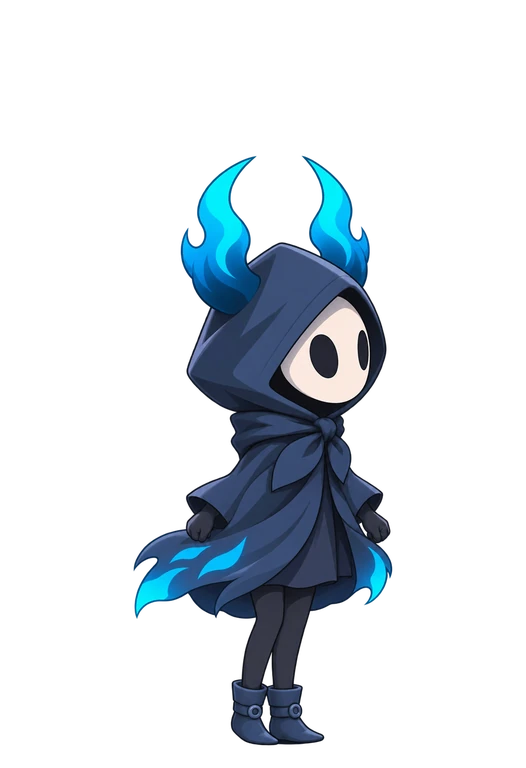
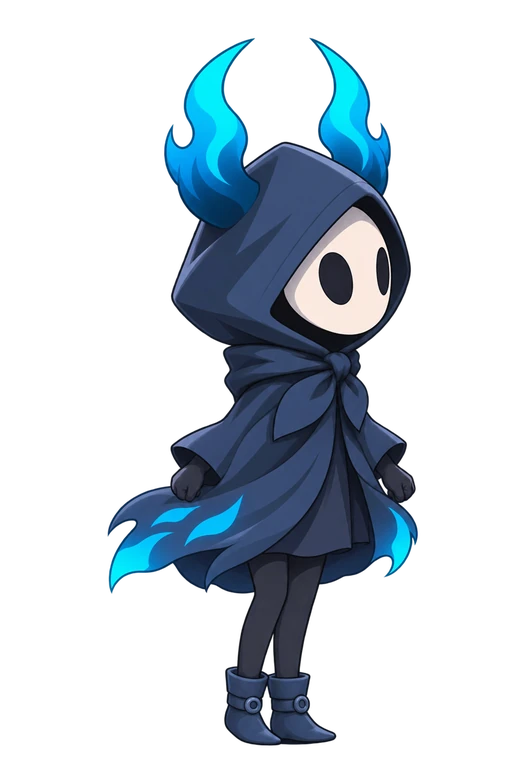
fix(companion): animation critic round 4 — transition edges, per-transition timing, chain via stand
Critic round 4 with the new frames: 8/10 (idle 9.5, emote 8). Fixed:
- walk_to_stand_1 was generated ~20% small: rescaled ×1.2 from the feet;
- entering and leaving a transition no longer crossfades into the loop (double figures);
- per-transition speed: getting up from lying / hopping off an edge 8 fps, landing 10, others 12, the
  last frame held 40 ms longer;
- no direct transition between two poses → chain through stand (e.g. stretch → stand → wave).

Changed region(s): [[0.1825, 0.0312, 0.7909, 0.9688], [0.5779, 0.0312, 0.6084, 0.0625]]

diff --git a/ui/src/features/companion/look/stage.ts b/ui/src/features/companion/look/stage.ts
@@ -8,8 +8,15 @@ import type { Body } from "../body";
 import { drawEffects } from "./effects";
 import { ANCHORS, CANVAS_RATIO, FALLBACK, LOOP_FPS, loadPoses, pickFrame, sequence } from "./pack";
 
-/** Переходные кадры между позами (`<из>_to_<в>_1…N`, FRAMES-4.md) — 12 кадров/с. */
+/** Переходные кадры между позами (`<из>_to_<в>_1…N`, FRAMES-4.md): 12 кадров/с, тяжёлые подъёмы — 8. */
 const TRANSITION_FPS = 12;
+const SLOW_TRANSITION: ReadonlyMap<string, number> = new Map([
+  ["laydown_to_stand", 8],
+  ["sit_edge_to_stand", 8],
+  ["float_to_stand", 10],
+]);
+/** Последний кадр перехода держится чуть дольше: подъём «доходит» (критик, раунд 4). */
+const TRANSITION_HOLD_S = 0.04;
 import { Motion } from "./motion";
 import { drawPanel, panelRect } from "./panel";
 import { placeholderPose } from "./placeholder";
@@ -110,12 +117,7 @@ export class CompanionStage {
       speaking: look.speaking && !sleeping && petting === 0,
       blink,
     };
-    const transition = this.#transition;
-    const step = transition === null ? -1 : Math.floor(transition.t * TRANSITION_FPS);
-    const key =
-      transition !== null && step < transition.keys.length
-        ? (transition.keys[step] ?? null)
-        : pickFrame(pose, state, this.#keys);
+    const key = this.#transitionKey() ?? pickFrame(pose, state, this.#keys);
     this.#frameKey = key;
     if (key !== null) return this.#poses.get(key) ?? null;
     const fallback = [pose, ...FALLBACK[pose]].find((one) => this.#placeholders.has(one));
@@ -124,7 +126,9 @@ export class CompanionStage {
 
   #lastDt = 0;
   #lastPose: Pose | null = null;
-  #transition: { keys: string[]; t: number } | null = null;
+  #transition: { keys: { key: string; s: number }[]; t: number } | null = null;
+  /** Этот кадр — граница перехода: без растворения цикла. */
+  #edge = false;
   /** Показанное свечение — плавно догоняет `look.attention`. */
   #glow = 0;
 
@@ -159,15 +163,43 @@ export class CompanionStage {
 
   /** Поза сменилась: есть переходные кадры («из_to_в» или обратные «в_to_из» задом наперёд) — сыграть. */
   #transit(pose: Pose, dt: number): void {
+    const was = this.#transitionKey();
     if (this.#transition !== null) this.#transition.t += dt;
+    // Вход в переход и выход из него — без растворения цикла: переход сам и есть сглаживание.
+    this.#edge = was !== this.#transitionKey();
     if (pose === this.#lastPose) return;
     const from = this.#lastPose;
     this.#lastPose = pose;
     if (from === null) return;
-    const forward = sequence(`${from}_to_${pose}`, this.#keys);
+    // Прямого перехода нет — через стойку (критик: «потягивается → машет» без перехода).
+    const direct = this.#path(from, pose);
     const keys =
-      forward.length > 0 ? forward : sequence(`${pose}_to_${from}`, this.#keys).reverse();
+      direct.length > 0 || from === "stand" || pose === "stand"
+        ? direct
+        : [...this.#path(from, "stand"), ...this.#path("stand", pose)];
     this.#transition = keys.length > 0 ? { keys, t: 0 } : null;
+    this.#edge = this.#edge || this.#transition !== null;
+  }
+
+  /** Кадры перехода `from → to`: прямые или обратные задом наперёд; каждый — со своей частотой. */
+  #path(from: Pose, to: Pose): { key: string; s: number }[] {
+    const forward = sequence(`${from}_to_${to}`, this.#keys);
+    const name = forward.length > 0 ? `${from}_to_${to}` : `${to}_to_${from}`;
+    const keys = forward.length > 0 ? forward : sequence(name, this.#keys).reverse();
+    const s = 1 / (SLOW_TRANSITION.get(name) ?? TRANSITION_FPS);
+    return keys.map((key, i) => ({ key, s: i === keys.length - 1 ? s + TRANSITION_HOLD_S : s }));
+  }
+
+  /** Кадр перехода сейчас или `null`. */
+  #transitionKey(): string | null {
+    const transition = this.#transition;
+    if (transition === null) return null;
+    let t = transition.t;
+    for (const one of transition.keys) {
+      if (t < one.s) return one.key;
+      t -= one.s;
+    }
+    return null;
   }
 
   /** Нарисовать кадр позы `pose` высотой `h` относительно уже сдвинутой в точку опоры системы. */
@@ -208,7 +240,7 @@ export class CompanionStage {
     ctx.save();
     // Растворять ли кадры цикла, решает `SOFT_LOOPS` (motion.ts): ходьба, лазанье, танец — нет.
     const loopS = 1 / (LOOP_FPS[body.pose] ?? 6);
-    this.#motion.frame(image, body.pose, loopS);
+    this.#motion.frame(image, body.pose, this.#edge ? 0 : loopS);
     const smooth = this.#motion.step(body, this.#lastDt);
     ctx.translate(body.x, body.y - lift);
     ctx.rotate(smooth.lean);

diff --git a/docs/ai/PROJECT_MAP.md b/docs/ai/PROJECT_MAP.md
@@ -957,8 +957,8 @@
 - `panelRect` — `ui/src/features/companion/look/panel.ts:12` — Прямоугольник табло на экране по рамке нарисованного кадра.
 - `drawPanel` — `ui/src/features/companion/look/panel.ts:22` — Написать `text` на табло; не влезает — медленно бежит по кругу (`time` — секунды).
 - `placeholderPose` — `ui/src/features/companion/look/placeholder.ts:261` — Силуэт позы: широкие линии с градиентом палитры окна, круг головы, подпись с именем позы.
-- `Look` — `ui/src/features/companion/look/stage.ts:35` — —
-- `CompanionStage` — `ui/src/features/companion/look/stage.ts:48` — —
+- `Look` — `ui/src/features/companion/look/stage.ts:42` — —
+- `CompanionStage` — `ui/src/features/companion/look/stage.ts:55` — —
 
 ## ui/src/features/companion/mind
 «Разум» спутника (MIND.md, ADR-0051): картина мира со сглаживанием, потребности, стимулы, арбитр
